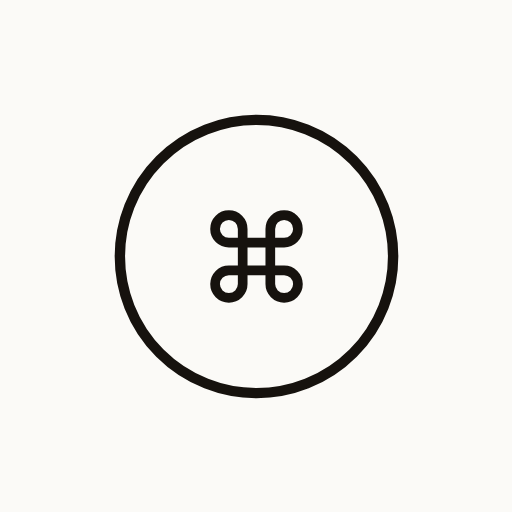
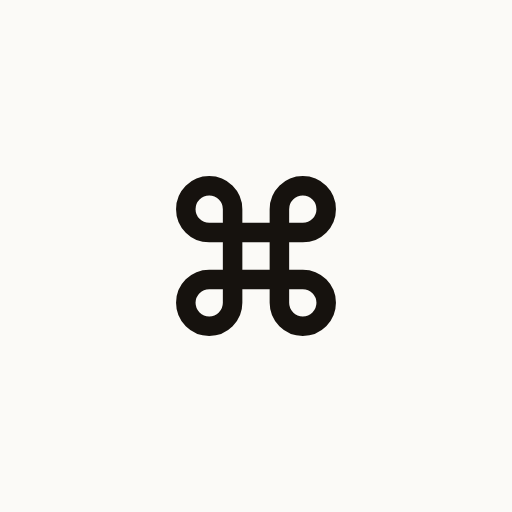
Redesenha o ícone da aba, que sumia no tamanho em que é visto
O ícone era o logotipo reduzido: traço fino sobre papel. A 16 pixels, traço
fino desaparece em qualquer cor — era isso, e não o preto, que fazia ele
parecer apagado. E o `stroke="currentColor"` piorava: sem cor herdada num
favicon, ele caía no preto padrão.

Agora é um desenho à parte. Disco cheio com o nó vazado: a forma sólida se
lê de longe, o nó dá identidade quando há pixels para isso. E se adapta ao
tema — disco de papel em barra escura, disco de tinta em barra clara — para
não acertar num tema e sumir no outro.

Os ícones de aplicativo seguem outra regra de propósito: marca em tinta
sobre papel, porque na tela inicial eles são um ladrilho sobre o papel de
parede, não um ícone sobre barra. O traço engordou bastante.

As referências levam ?v=2 porque favicon é o recurso mais teimoso do cache
do navegador: sem trocar a URL, quem já visitou continuaria vendo o antigo.

Changed region(s): [[0.3438, 0.3438, 0.6562, 0.6562], [0.2188, 0.2188, 0.7812, 0.7812]]

diff --git a/index.html b/index.html
@@ -29,9 +29,12 @@
   <meta name="twitter:image" content="https://guatelipe.com/images/guatelipe-og.jpg">
   <meta name="twitter:image:alt" content="Guatelipe Web Development — sem tema pronto">
 
-  <link rel="icon" type="image/svg+xml" href="images/logo.svg">
-  <link rel="icon" type="image/png" sizes="180x180" href="images/icone-180.png">
-  <link rel="apple-touch-icon" href="images/icone-180.png">
+  <!-- O ?v=2 é obrigatório aqui: navegador guarda favicon por muito tempo e
+       ignora até recarregamento forçado. Sem trocar a URL, quem já visitou
+       continuaria vendo o ícone antigo por semanas. -->
+  <link rel="icon" type="image/svg+xml" href="images/logo.svg?v=2">
+  <link rel="icon" type="image/png" sizes="180x180" href="images/icone-180.png?v=2">
+  <link rel="apple-touch-icon" href="images/icone-180.png?v=2">
   <link rel="manifest" href="site.webmanifest">
 
   <script type="application/ld+json">
@@ -518,6 +521,7 @@
               </div>
               <a href="https://fisiocarolscarabelli.netlify.app" target="_blank" rel="noopener">Abrir o site <span>↗</span></a>
             </div>
+
           </article>
 
           <article class="project-card project-wide project-invite reveal">

diff --git a/404.html b/404.html
@@ -6,9 +6,9 @@
   <title>Página não encontrada | Guatelipe</title>
   <meta name="robots" content="noindex, follow">
   <meta name="theme-color" content="#FBFAF7">
-  <link rel="icon" type="image/svg+xml" href="images/logo.svg">
-  <link rel="icon" type="image/png" sizes="180x180" href="images/icone-180.png">
-  <link rel="apple-touch-icon" href="images/icone-180.png">
+  <link rel="icon" type="image/svg+xml" href="images/logo.svg?v=2">
+  <link rel="icon" type="image/png" sizes="180x180" href="images/icone-180.png?v=2">
+  <link rel="apple-touch-icon" href="images/icone-180.png?v=2">
 
   <link rel="preconnect" href="https://fonts.googleapis.com">
   <link rel="preconnect" href="https://fonts.gstatic.com" crossorigin>

diff --git a/README.md b/README.md
@@ -162,7 +162,18 @@ completar.
 - [ ] Ligar o Cloudflare Web Analytics (snippet comentado no `<head>`)
 - [ ] Enviar o `sitemap.xml` ao Google Search Console
 - [ ] Segundo projeto real no portfólio
+- [ ] Criar o Perfil da Empresa no Google — é o que faz o site aparecer no
+      bloco local e a única via para ter avaliação no Google
 - [ ] Depoimento de cliente
+
+Sobre o depoimento, para quem for implementar: ele **não** deve entrar no
+`schema.org` como `Review`. Avaliação que o próprio negócio publica sobre
+si mesmo é o que o Google chama de *self-serving review* — não gera estrela
+no resultado de busca e é explicitamente desconsiderada.
+
+E não vale imitar o formato de avaliação do Google com estrelas e logo se a
+avaliação não existir lá de verdade: o card afirma um registro público que
+qualquer pessoa pode ir conferir.
 
 ## Licença
 
